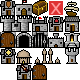
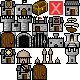
fix(ship): ship animations did not work
- now the ship turns and bobs up/down as you move
 - the problem was that "ship.png" existed in the objects folder and the metadata for that object overwrote the metadata for the ship animations coming from ship.png in vehicles/.
 - TODO: assert overwritten sprite names?

Changed region(s): [[0.8, 0.0, 1.0, 0.4]]

diff --git a/src/app/routes/world/features/ship-feature.component.ts b/src/app/routes/world/features/ship-feature.component.ts
@@ -72,7 +72,6 @@ export class ShipFeatureComponent
   partyObject: TileObject | null;
   boarded: boolean = false;
 
-  private _moveSubscription: Subscription | null = null;
   private _subscription: Subscription | null = null;
 
   enter(object: GameFeatureObject): boolean {
@@ -95,7 +94,7 @@ export class ShipFeatureComponent
     }
     let shouldDisembark = false;
     const partyTarget = Point.equal(this.partyObject.point, this.party.targetPoint);
-    if (partyTarget && !this.party.heading.isZero()) {
+    if (partyTarget && !this.party.heading.isZero() && !this.party.velocity.isZero()) {
       const from: Point = new Point(this.partyObject.point);
       const to: Point = from.clone().add(this.party.heading);
       if (

diff --git a/src/app/routes/world/behaviors/player-render.behavior.ts b/src/app/routes/world/behaviors/player-render.behavior.ts
@@ -73,8 +73,8 @@ export class PlayerRenderBehaviorComponent extends TickedBehavior {
   }
 
   setHeading(direction: Headings, animating: boolean) {
-    if (!this._animator.sourceAnims || this._sourceAnimsFor !== this.host.icon) {
-      const icon = this.host.icon || '';
+    const icon = this.host.altIcon || this.host.icon || '';
+    if (!this._animator.sourceAnims || this._sourceAnimsFor !== icon) {
       this._animator.setAnimationSource(icon);
       this._sourceAnimsFor = icon;
     }
